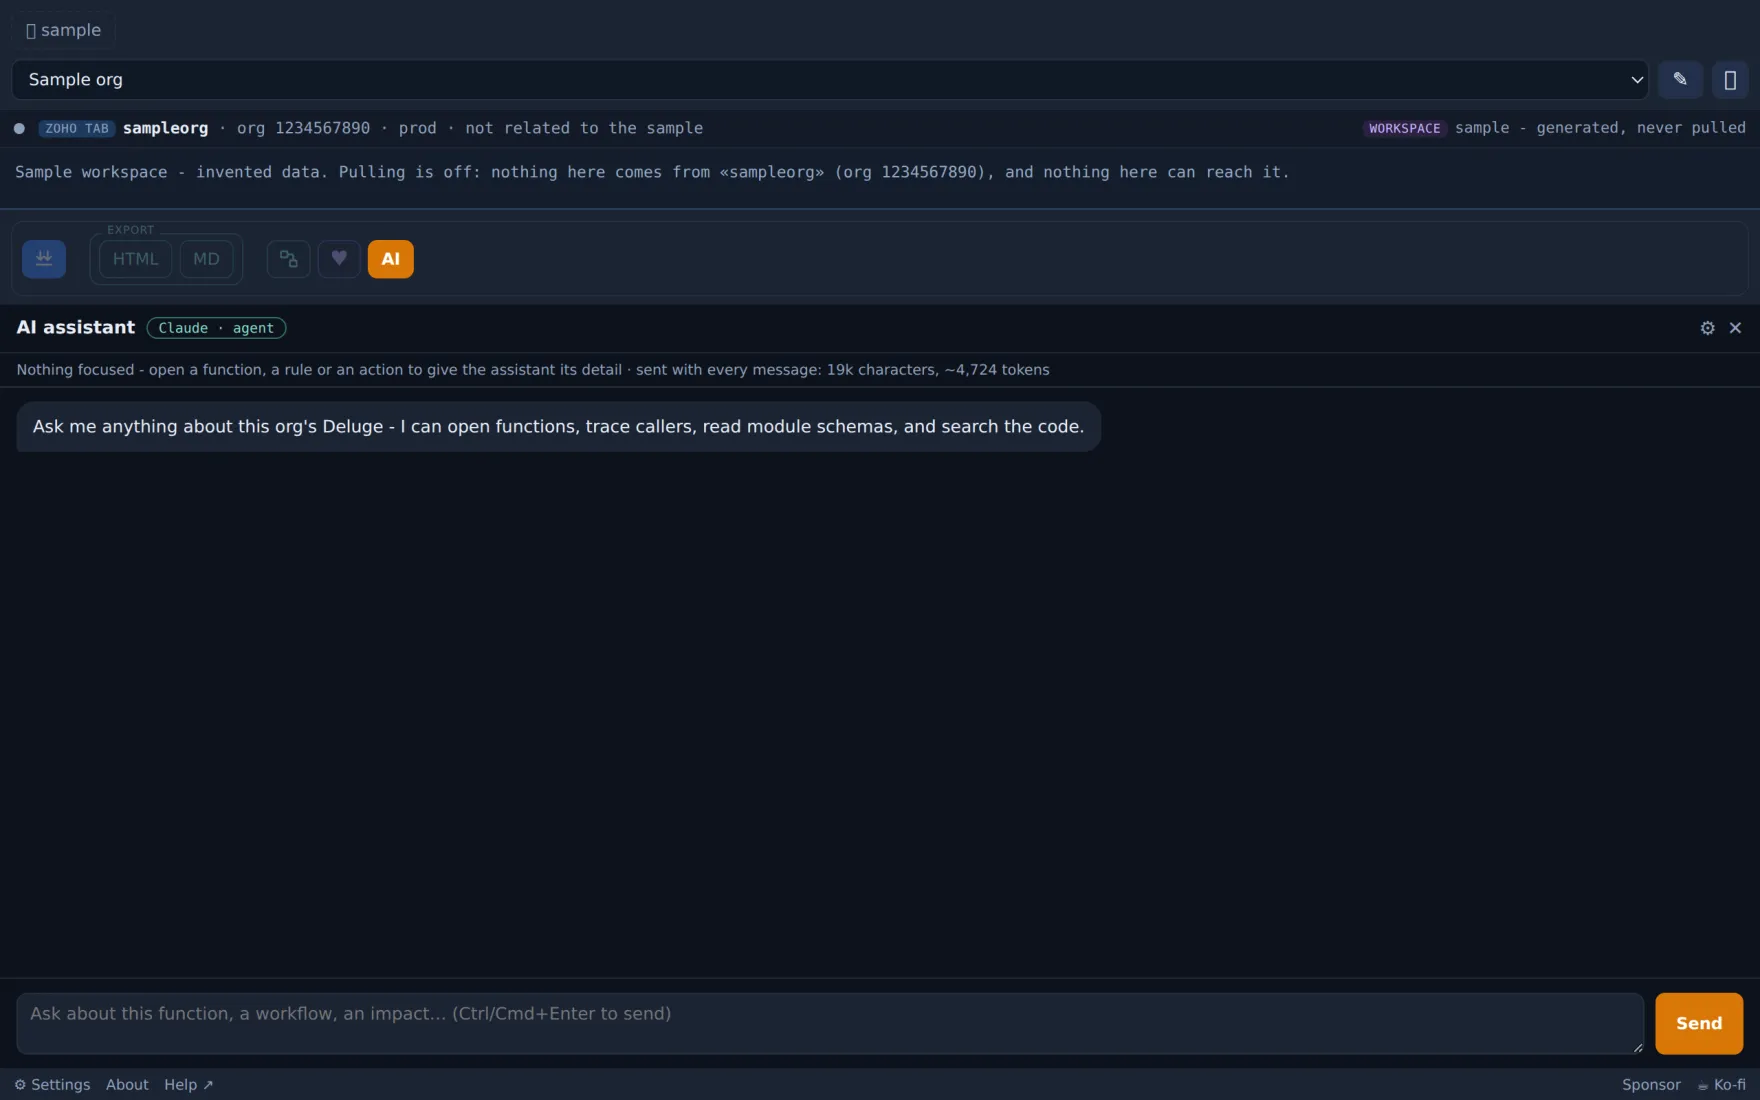
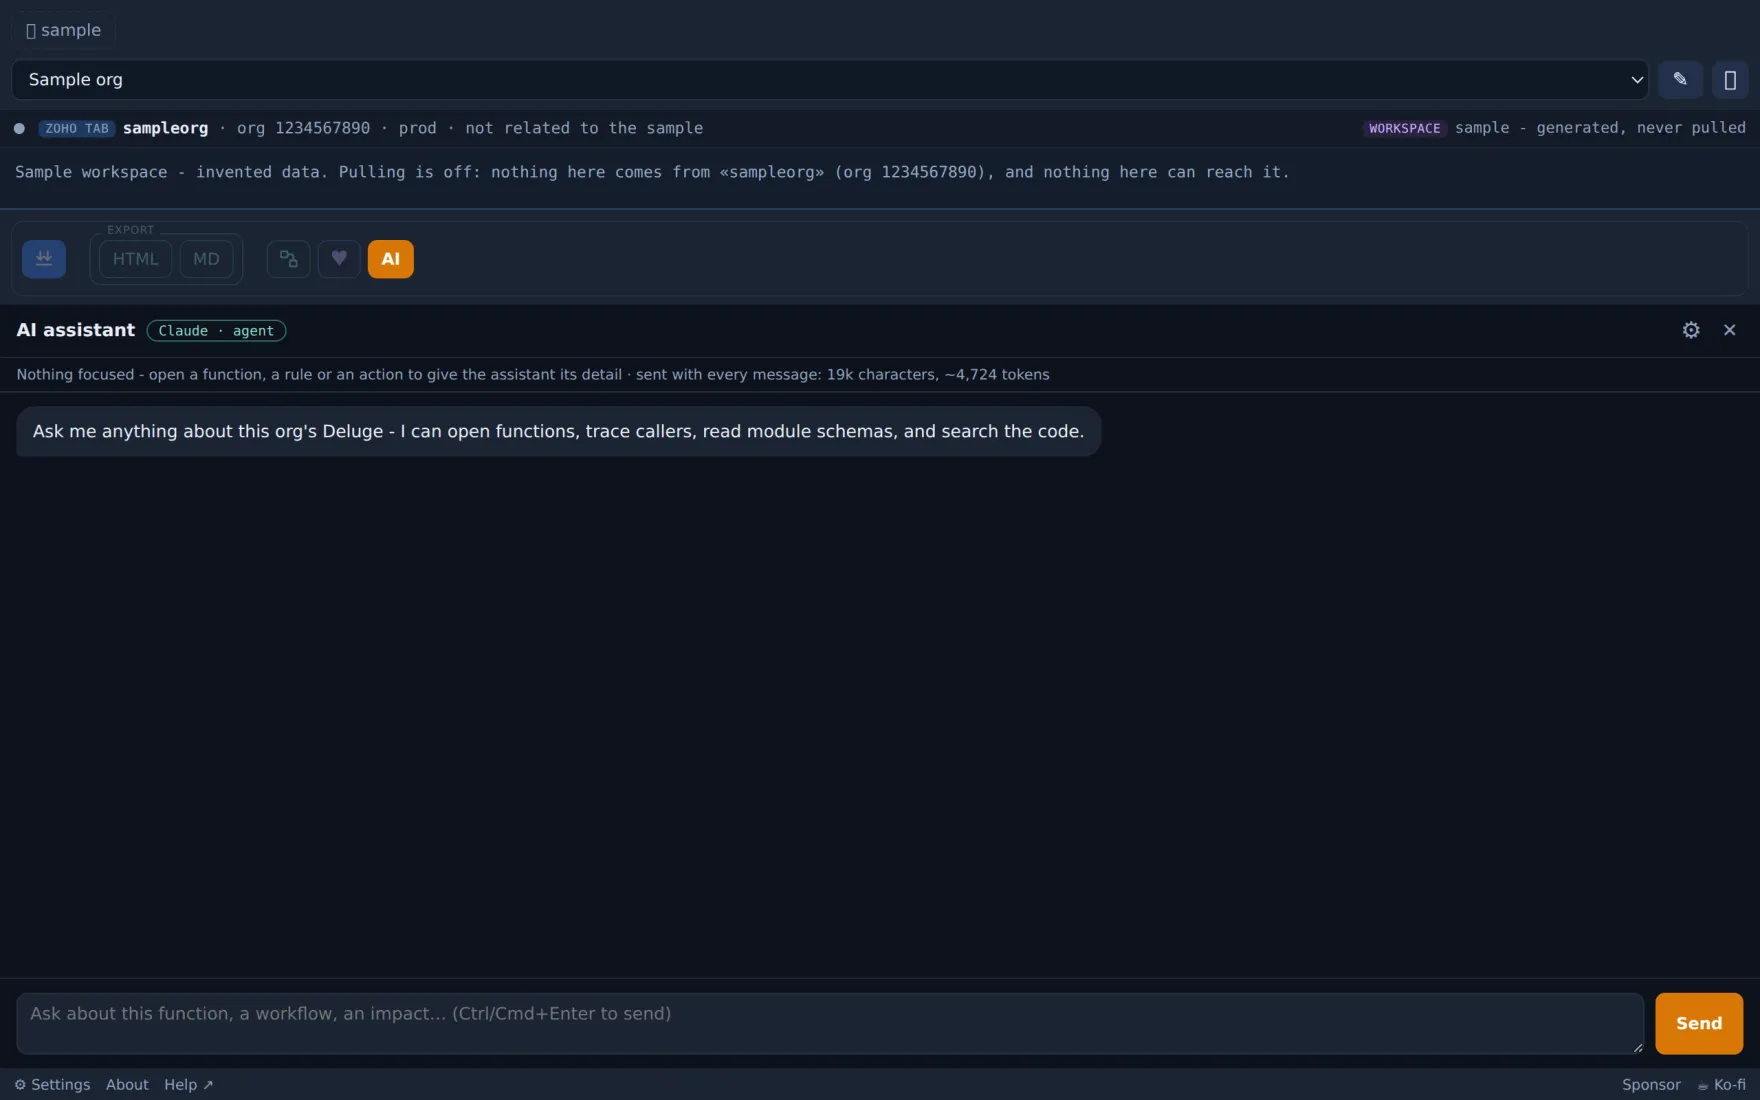
Three on the settings, one from the Actions tab, and the header agrees with itself
**Forget sat on a provider with nothing stored** - the same convention as the panel's retry button
and the Clear button before it, broken a third time on a page nobody had applied it to. A key in
the clear or behind a passphrase both count; neither means it is greyed.

**The assistant's gear opened the top of a long page** about eight things, leaving the reader to
find the one they had been sent for. It carries a fragment now, the AI section has an id to land
on, and a settings window already open is moved to it rather than merely focused - otherwise
asking twice does nothing visible and reads as a broken button.

**The gear was a speck beside the cross.** Same declared size, and a glyph's ink is its own
business. Both now sit in a box of their own and are centred in it, which is the fix for the
second half of the same report: measured in the shipped panel, title, badge, Clear, gear and cross
share one vertical centre to a tenth of a pixel. A per-glyph nudge would have been fitting the
font instead of the layout.

**And a defect of mine from this morning.** The arrows opened every row as a function, but that
list is the functions tree in one mode and modules, workflows, schedules, actions or connections
in the others - so in the Actions tab an arrow answered «A requested file or directory could not
be found». It clicks the row instead, which is the one thing every row already knows how to be.
Reproduced in the shipped panel and confirmed fixed there.
[…]

Changed region(s): [[0.0, 0.2782, 0.625, 0.4018], [0.9375, 0.2782, 1.0, 0.3091]]

diff --git a/apps/crm/sidepanel.js b/apps/crm/sidepanel.js
@@ -208,13 +208,16 @@ document.addEventListener('click', (e) => {
 // Uniqueness by construction is still not enough on its own, which is why options.js also refuses to
 // save over a value that changed underneath it. A window can be closed and reopened, the extension
 // reloaded, and the panel itself writes some of these keys.
-async function openSettings() {
-  const url = chrome.runtime.getURL('options.html');
+// `where` is a fragment - '#ai' from the assistant - so a reader sent to change one thing lands on
+// it instead of at the top of a page about eight. An already-open settings window is focused *and*
+// moved, because otherwise the second ask does nothing visible and reads as a broken button.
+async function openSettings(where) {
+  const url = chrome.runtime.getURL('options.html') + (where || '');
   try {
-    const open = await chrome.tabs.query({ url });
+    const open = await chrome.tabs.query({ url: chrome.runtime.getURL('options.html') });
     if (open && open.length) {
       await chrome.windows.update(open[0].windowId, { focused: true });
-      await chrome.tabs.update(open[0].id, { active: true });
+      await chrome.tabs.update(open[0].id, { active: true, url });
       return;
     }
     await chrome.windows.create({ url, type: 'popup', width: 880, height: 900 });
@@ -1546,7 +1549,12 @@ function stepSelection(delta, edge) {
   const el = rows[i];
   if (!el || el === cur) return;
   stepAnchor = el.dataset.path;
-  openFromTree(el.dataset.path);
+  // **The row is clicked, not opened as a function.** This list is the functions tree in one mode
+  // and modules, workflows, schedules, actions or connections in the others, and each row already
+  // carries what opening it means. Calling openFromTree() on all of them read an action's row as a
+  // path to a .dg file and answered «A requested file or directory could not be found» - reported
+  // from the Actions tab. A click is the one thing every row knows how to be.
+  el.click();
   // The group header is sticky here, and it is the previous group's label that covers the row you
   // have just stepped up onto.
   revealRow(el, $('tree'), '.grp');
@@ -2630,7 +2638,7 @@ function aiClear() { if (!aiMessages.length) return; if (!window.confirm('Clear 
 // AI configuration lives in the options page now: the side panel is 400px wide and these are
 // set-once fields. openSettings() focuses the one settings window; the panel picks the change up via
 // chrome.storage.onChanged.
-function aiOpenSettings() { openSettings(); }
+function aiOpenSettings() { openSettings('#ai'); }   // sent from the assistant, so land on its section
 
 
 // ---------- save-sync ----------

diff --git a/apps/analytics/sidepanel.js b/apps/analytics/sidepanel.js
@@ -112,13 +112,16 @@ document.addEventListener('click', (e) => {
 // Uniqueness by construction is still not enough on its own, which is why options.js also refuses to
 // save over a value that changed underneath it. A window can be closed and reopened, the extension
 // reloaded, and the panel itself writes some of these keys.
-async function openSettings() {
-  const url = chrome.runtime.getURL('options.html');
+// `where` is a fragment - '#ai' from the assistant - so a reader sent to change one thing lands on
+// it instead of at the top of a page about eight. An already-open settings window is focused *and*
+// moved, because otherwise the second ask does nothing visible and reads as a broken button.
+async function openSettings(where) {
+  const url = chrome.runtime.getURL('options.html') + (where || '');
   try {
-    const open = await chrome.tabs.query({ url });
+    const open = await chrome.tabs.query({ url: chrome.runtime.getURL('options.html') });
     if (open && open.length) {
       await chrome.windows.update(open[0].windowId, { focused: true });
-      await chrome.tabs.update(open[0].id, { active: true });
+      await chrome.tabs.update(open[0].id, { active: true, url });
       return;
     }
     await chrome.windows.create({ url, type: 'popup', width: 880, height: 900 });
@@ -1889,7 +1892,7 @@ async function aiSend() {
   aiEngineChrome();
   if (aiLocked(cfg)) { aiShowLock(true); return; }
   if (!(await aiEnsureFiles())) { status('Folder access needs re-granting - press \u21bb Refresh, then ask again.', 'warn'); return; }
-  if (!aiActiveReady(cfg)) { openSettings(); status('Set the model and API key in Settings (just opened), then try again.', 'warn'); return; }
+  if (!aiActiveReady(cfg)) { openSettings('#ai'); status('Set the model and API key in Settings (just opened), then try again.', 'warn'); return; }
   const inp = $('aiinput'); const text = inp.value.trim(); if (!text) return;
   inp.value = ''; aiMessages.push({ role: 'user', content: text });
   aiBusy = true; $('aisend').disabled = true; aiRenderMessages(); status('AI thinking…', 'busy');
@@ -2485,7 +2488,7 @@ $('health').onclick = () => ($('healthview').classList.contains('show') ? closeH
 $('askai').onclick = toggleAI;
 $('aix').onclick = closeAI;
 $('aiclear').onclick = aiClear;
-$('aigear').onclick = () => openSettings();
+$('aigear').onclick = () => openSettings('#ai');
 $('ainotex').onclick = () => $('ainote').classList.remove('show');
 $('ailockgo').onclick = aiUnlock; $('ailockpass').onkeydown = (e) => { if (e.key === 'Enter') aiUnlock(); };
 $('aisend').onclick = aiSend;

diff --git a/apps/crm/options.js b/apps/crm/options.js
@@ -258,6 +258,14 @@ async function currentAi() {
   return { anthropic: c.anthropic || {}, openai: c.openai || {} };
 }
 
+// Whether a provider has anything stored at all - a key in the clear, or one behind a passphrase.
+// Both count: forgetting is about what is on this machine, not about which form it took.
+function showForget(prov, stored) {
+  const btn = $(prov === 'anthropic' ? 'ai_a_forget' : 'ai_o_forget');
+  if (!btn) return;
+  btn.style.display = (stored && (stored.apiKey || stored.apiKeyEnc)) ? '' : 'none';
+}
+
 async function loadAi() {
   let c = {}; try { const r = await chrome.storage.local.get('aicfg'); c = r.aicfg || {}; } catch (_) {}
   const cfg = {
@@ -283,6 +291,10 @@ async function loadAi() {
     if (prov.apiKeyEnc) { $(id).value = ''; $(id).placeholder = 'stored encrypted - type it again to replace it'; }
   });
   aiStored = { anthropic: cfg.anthropic, openai: cfg.openai };
+  // Absent when there is nothing to forget. The same rule as the panel's retry and Clear buttons:
+  // a control that can do nothing goes away rather than sitting there, because offering to remove
+  // what is not there is an answer to a question nobody asked. Reported.
+  showForget('anthropic', cfg.anthropic); showForget('openai', cfg.openai);
   prevEngine = cfg.active;
   aiForget.clear();
   wireForget('anthropic', 'ai_a_key', 'ai_a_model'); wireForget('openai', 'ai_o_key', 'ai_o_model');

diff --git a/apps/analytics/options.js b/apps/analytics/options.js
@@ -235,6 +235,14 @@ async function currentAi() {
   return { anthropic: c.anthropic || {}, openai: c.openai || {} };
 }
 
+// Whether a provider has anything stored at all - a key in the clear, or one behind a passphrase.
+// Both count: forgetting is about what is on this machine, not about which form it took.
+function showForget(prov, stored) {
+  const btn = $(prov === 'anthropic' ? 'ai_a_forget' : 'ai_o_forget');
+  if (!btn) return;
+  btn.style.display = (stored && (stored.apiKey || stored.apiKeyEnc)) ? '' : 'none';
+}
+
 async function loadAi() {
   let c = {};
   try { const r = await chrome.storage.local.get('aicfg'); c = r.aicfg || {}; } catch (_) {}
@@ -257,6 +265,10 @@ async function loadAi() {
     if (prov.apiKeyEnc) { $(id).value = ''; $(id).placeholder = 'stored encrypted - type it again to replace it'; }
   });
   aiStored = { anthropic: cfg.anthropic, openai: cfg.openai };
+  // Absent when there is nothing to forget. The same rule as the panel's retry and Clear buttons:
+  // a control that can do nothing goes away rather than sitting there, because offering to remove
+  // what is not there is an answer to a question nobody asked. Reported.
+  showForget('anthropic', cfg.anthropic); showForget('openai', cfg.openai);
   prevEngine = cfg.active;
   aiForget.clear();
   wireForget('anthropic', 'ai_a_key', 'ai_a_model'); wireForget('openai', 'ai_o_key', 'ai_o_model');

diff --git a/site/it/ai.html b/site/it/ai.html
@@ -168,13 +168,13 @@
     quel problema non lo risolve; una scheda sì.</p>
 
   <figure class="shot">
-    <img src="/img/crm-ai.webp?v=5335cf7452" width="1760" height="1100" loading="lazy" decoding="async"
+    <img src="/img/crm-ai.webp?v=e8b924ae0b" width="1760" height="1100" loading="lazy" decoding="async"
          alt="L'assistente dentro il pannello Zoost, con la riga di contesto sotto il titolo che mostra quanto viene spedito a ogni messaggio.">
     <figcaption><b>L'assistente, nel pannello.</b> Sotto il titolo c'è la dimensione dell'indice che viaggia con ogni messaggio, in caratteri e token: la manopola e il suo costo nello stesso posto.</figcaption>
   </figure>
 
   <figure class="shot">
-    <img src="/img/analytics-ai.webp?v=581de3a32e" width="1760" height="1100" loading="lazy" decoding="async"
+    <img src="/img/analytics-ai.webp?v=be037eae45" width="1760" height="1100" loading="lazy" decoding="async"
          alt="L'assistente nel pannello Zoost Analytics, con gli strumenti che chiama elencati mentre li usa.">
     <figcaption><b>Lo stesso assistente, un prodotto più in là.</b> In Zoho Analytics legge strutture, segue una chiave esterna e apre l'SQL di una query - nove strumenti; ogni chiamata viene scritta mentre succede.</figcaption>
   </figure>

diff --git a/apps/crm/sidepanel.html b/apps/crm/sidepanel.html
@@ -107,6 +107,15 @@
   #aiview .aihead{display:flex;align-items:center;gap:8px;padding:9px 12px;border-bottom:1px solid var(--line);font-weight:600;color:var(--ink)}
   #aiview .aihead .aisp{flex:1}
   #aiview .aiicon{cursor:pointer;color:var(--muted);font-size:14px}
+  /* Two glyphs, two different amounts of ink inside the same line box - ⚙ paints much smaller than
+     ✕ at the same declared size, and each sits differently against its own baseline. Nudging one by
+     a pixel is fitting the font rather than the layout, so instead they get a box of their own and
+     are centred inside it: whatever a font does with them, the two boxes are the same and the row
+     agrees with itself. `Clear` keeps the plain rule, because it is a word and a fixed width would
+     clip it. Reported as «the gear is too small and they are not all centred». */
+  #aiview #aigear, #aiview #aix{display:inline-flex;align-items:center;justify-content:center;
+    width:20px;height:20px;line-height:1}
+  #aiview #aigear{font-size:17px}
   #aiview .aiicon:hover{color:var(--ink)}
   /* Chrome, not content: the context line sits on the panel background so the message bubbles -
      which are --surface - read as raised above it. It used to share both the background and the

diff --git a/apps/analytics/sidepanel.html b/apps/analytics/sidepanel.html
@@ -242,6 +242,15 @@
   #aiview .aihead{display:flex;align-items:center;gap:8px;padding:9px 12px;border-bottom:1px solid var(--line);font-weight:600;color:var(--ink)}
   #aiview .aihead .aisp{flex:1}
   #aiview .aiicon{cursor:pointer;color:var(--muted);font-size:14px}
+  /* Two glyphs, two different amounts of ink inside the same line box - ⚙ paints much smaller than
+     ✕ at the same declared size, and each sits differently against its own baseline. Nudging one by
+     a pixel is fitting the font rather than the layout, so instead they get a box of their own and
+     are centred inside it: whatever a font does with them, the two boxes are the same and the row
+     agrees with itself. `Clear` keeps the plain rule, because it is a word and a fixed width would
+     clip it. Reported as «the gear is too small and they are not all centred». */
+  #aiview #aigear, #aiview #aix{display:inline-flex;align-items:center;justify-content:center;
+    width:20px;height:20px;line-height:1}
+  #aiview #aigear{font-size:17px}
   #aiview .aiicon:hover{color:var(--ink)}
   #aiclear{font-size:11px}
   #aiengbadge{font:10px var(--mono);color:var(--muted);border:1px solid var(--border);border-radius:999px;padding:1px 8px;white-space:nowrap}

diff --git a/site/ai.html b/site/ai.html
@@ -164,13 +164,13 @@
     that. A tab does.</p>
 
   <figure class="shot">
-    <img src="/img/crm-ai.webp?v=5335cf7452" width="1760" height="1100" loading="lazy" decoding="async"
+    <img src="/img/crm-ai.webp?v=e8b924ae0b" width="1760" height="1100" loading="lazy" decoding="async"
          alt="The assistant inside the Zoost panel, with the context line under its title showing the size of what is sent with every message.">
     <figcaption><b>The assistant, in the panel.</b> Under the title is the size of the index that travels with every message, in characters and tokens - the knob and its cost in the same place.</figcaption>
   </figure>
 
   <figure class="shot">
-    <img src="/img/analytics-ai.webp?v=581de3a32e" width="1760" height="1100" loading="lazy" decoding="async"
+    <img src="/img/analytics-ai.webp?v=be037eae45" width="1760" height="1100" loading="lazy" decoding="async"
          alt="The assistant in the Zoost Analytics panel, with the tools it can call listed as it uses them.">
     <figcaption><b>The same assistant, one product over.</b> In Zoho Analytics it reads structures, follows a foreign key and opens a query's SQL - nine tools, and every call it makes is printed as it happens.</figcaption>
   </figure>

diff --git a/site/it/docs-analytics.html b/site/it/docs-analytics.html
@@ -500,7 +500,7 @@ git init &amp;&amp; git add -A &amp;&amp; git commit -m "initial mirror"</code><
     niente. Verifica che questo sia accettabile per la tua organizzazione prima di attivarlo.</p>
 
   <figure class="shot">
-    <img src="/img/analytics-settings.webp?v=77fda769da" width="1760" height="1100" loading="lazy" decoding="async"
+    <img src="/img/analytics-settings.webp?v=185eac7a12" width="1760" height="1100" loading="lazy" decoding="async"
          alt="La pagina impostazioni con il motore AI, il modello e la chiave.">
     <figcaption>Dove si scelgono motore e chiave.</figcaption>
   </figure>

diff --git a/site/docs-analytics.html b/site/docs-analytics.html
@@ -477,7 +477,7 @@ git init &amp;&amp; git add -A &amp;&amp; git commit -m "initial mirror"</code><
     the developer. Check this is acceptable for your organisation before enabling it.</p>
 
   <figure class="shot">
-    <img src="/img/analytics-settings.webp?v=77fda769da" width="1760" height="1100" loading="lazy" decoding="async"
+    <img src="/img/analytics-settings.webp?v=185eac7a12" width="1760" height="1100" loading="lazy" decoding="async"
          alt="The settings page with the AI engine, the model and the key.">
     <figcaption>Where the engine and the key are chosen.</figcaption>
   </figure>

diff --git a/apps/analytics/options.html b/apps/analytics/options.html
@@ -105,7 +105,7 @@
   </section>
 
   <section data-section="aicfg">
-    <h2>AI assistant</h2>
+    <h2 id="ai">AI assistant</h2>
     <p class="sub">Bring your own key. Two providers are supported: <b>Anthropic</b> and <b>OpenAI</b>.
       Requests go straight from your browser to the one you choose - never through any server of ours.
       Keys are stored in <code>chrome.storage.local</code> on this machine.</p>

diff --git a/apps/crm/options.html b/apps/crm/options.html
@@ -137,7 +137,7 @@
   </section>
 
   <section data-section="aicfg">
-    <h2>AI assistant</h2>
+    <h2 id="ai">AI assistant</h2>
     <p class="sub">Bring your own key. Two providers are supported: <b>Anthropic</b> and <b>OpenAI</b>.
       Requests go straight from your browser to the one you choose - never through any server of ours.
       Keys are stored in <code>chrome.storage.local</code> on this machine.</p>
